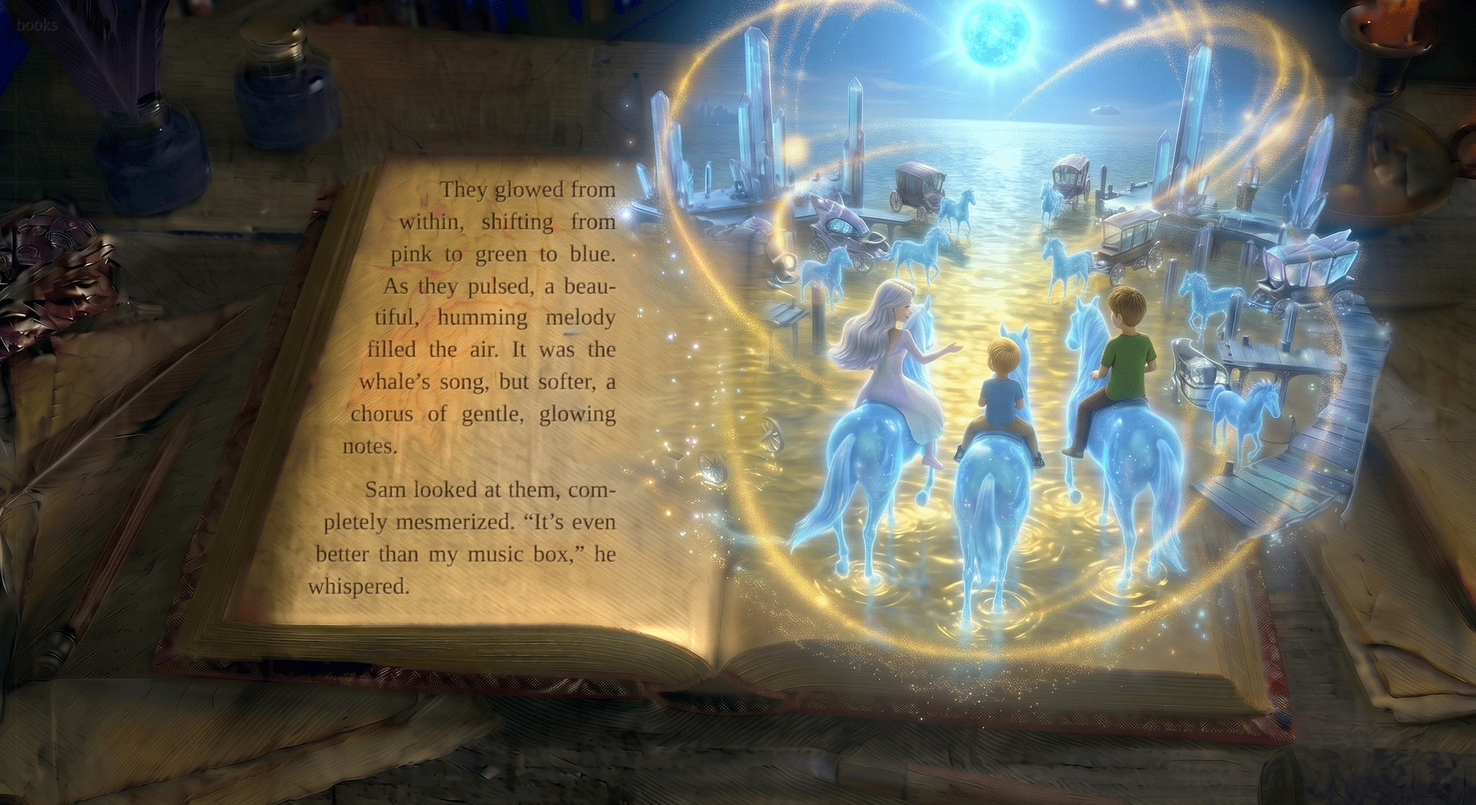
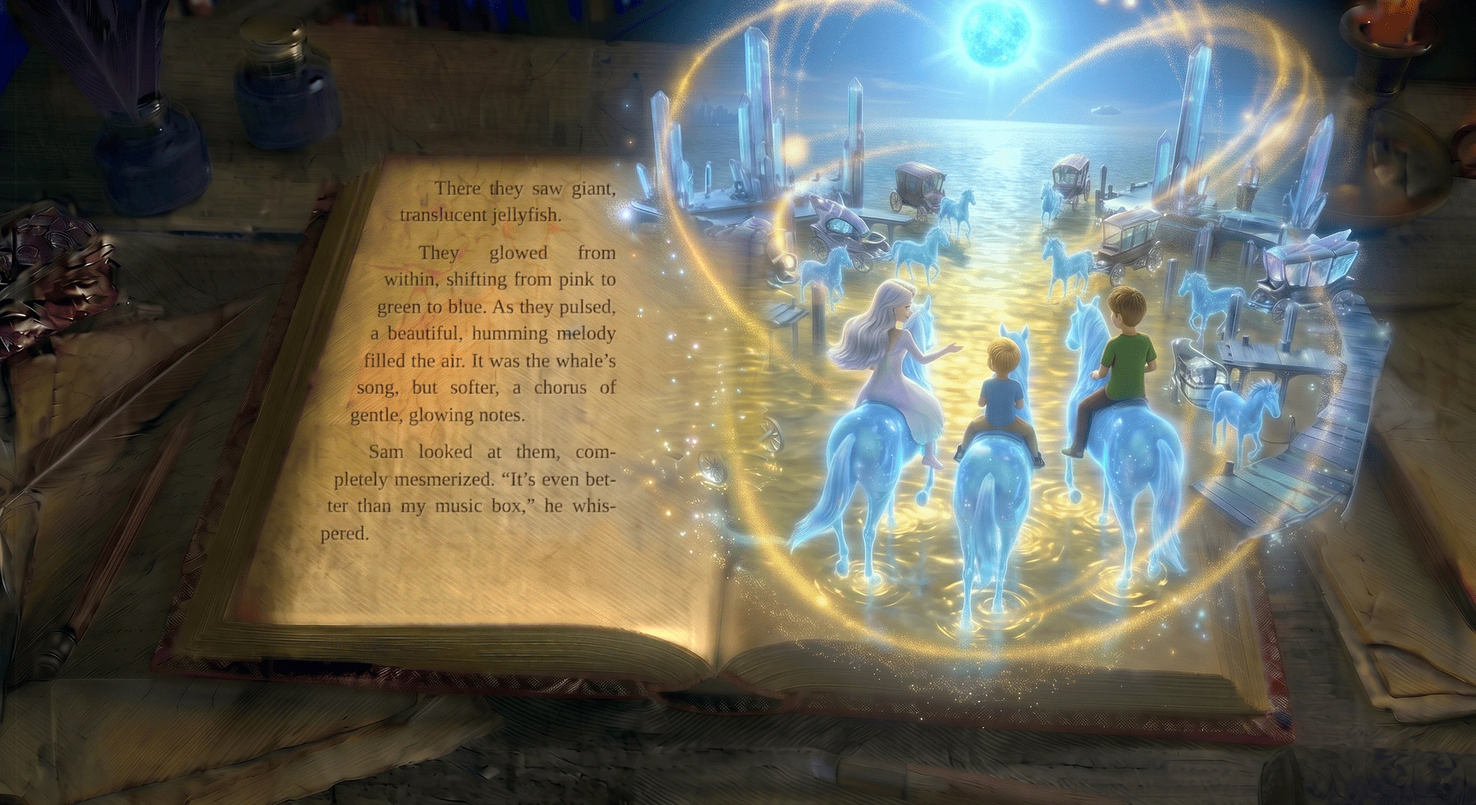
Pages 78-79: add port arrival line, move jellyfish sentence to next page
Claude-Session: https://claude.ai/code/session_01BFtifSTdmWYaAK88ECs5PE

Changed region(s): [[0.2188, 0.2188, 0.4375, 0.75]]

diff --git a/books/upside-down-world/story.js b/books/upside-down-world/story.js
@@ -79,8 +79,8 @@ window.STORY={"title":"The Upside-Down World","author":"M. A. Mafodh","pages":[
 {"img":"xy5","video":"xy5v","box":[374,172,636,596],"parts":["Xylia gasped and stumbled back a step.\n\"How... how did you do that?\"\nSam blinked at his fingers in surprise.\n\"I don't know,\" he admitted. \"It just felt warm. Like holding a flashlight.\""],"book":true},
 {"img":"xy6","video":"xy6v","box":[374,172,636,596],"parts":["Leo quickly pulled him to his feet and glanced uneasily toward the gray cottages.\n\"Probably static electricity from that weird waterfall door,\" he said, forcing a shrug. \"Come on, Sam. Let's stay together.\""],"book":true},
 {"img":"xy7","video":"xy7v","box":[374,172,636,596],"parts":["But as they walked on, neither Leo nor Xylia noticed the other restored flowers glowing faintly around them, their pink petals sparkling with traces of golden light."],"book":true},
-{"img":"p32","sprite":"p32k","dust":true,"book":true,"box":[374,170,574,596],"parts":["There, they had to ride blue shiny horses floating just above the water. \"Wow, they use horses to sail!\" Sam, who always wanted to ride one. The three adventurous friends started sailing towards the horizon.\nThere they saw giant, translucent jellyfish."]},
-{"img":"p32b","sprite":"p32k","dust":true,"book":true,"box":[374,170,574,596],"parts":["They glowed from within, shifting from pink to green to blue. As they pulsed, a beautiful, humming melody filled the air. It was the whale's song, but softer, a chorus of gentle, glowing notes.\nSam looked at them, completely mesmerized. \"It's even better than my music box,\" he whispered."]},
+{"img":"p32","sprite":"p32k","dust":true,"book":true,"box":[374,170,574,596],"parts":["When they finally reached the port, the yellow sea shimmered before them. There, they had to ride blue shiny horses floating just above the water. \"Wow, they use horses to sail!\" Sam, who always wanted to ride one. The three adventurous friends started sailing towards the horizon."]},
+{"img":"p32b","sprite":"p32k","dust":true,"book":true,"box":[374,170,574,596],"parts":["There they saw giant, translucent jellyfish.\nThey glowed from within, shifting from pink to green to blue. As they pulsed, a beautiful, humming melody filled the air. It was the whale's song, but softer, a chorus of gentle, glowing notes.\nSam looked at them, completely mesmerized. \"It's even better than my music box,\" he whispered."]},
 {"img":"p33","sprite":"p33k","dust":true,"songcard":true,"song":[0],"box":[372,176,602,590],"parts":["Swim in the Stars — Upside World Vol. 2"]},
 {"img":"p34","sprite":"p34k","dust":true,"book":true,"box":[374,170,584,590],"parts":["Leo took out the camera. \"I have to film this.\" He pressed record, capturing the impossible sight for proof. For a second, he almost forgot they were trapped in another world.\nAll of a sudden, the jellyfish panicked and started running away. \"We have to leave right now, pirates approaching us!\""]},
 {"img":"p34b","sprite":"p34k","dust":true,"book":true,"box":[374,170,584,590],"parts":["Xylia shouted with urgency, her voice filled with concern. She pointed towards the horizon where several black horses and wagons were swiftly heading in their direction. The wagons were rusty and jagged, like they were carved from nightmare, and they flew tattered flags with a dragon skull on them."]},

diff --git a/books/upside-down-world/index.html b/books/upside-down-world/index.html
@@ -128,7 +128,7 @@ body.narrow #bar{gap:6px;padding-top:8px}body.narrow #bar button{padding:0 12px;
   <button id="auto" aria-pressed="true" title="Turn the pages by itself">Auto turn</button>
   <button id="next" aria-label="Next page">&#8594;</button>
 </div>
-<script src="story.js?v=81"></script>
+<script src="story.js?v=82"></script>
 <script src="sprite.js?v=42"></script>
 <script src="lyrics.js?v=2"></script><script src="lyrics2.js?v=1"></script>
 <script src="voice.js?v=20"></script>
@@ -214,7 +214,7 @@ const vids={};let blackT=null;
 function black(){if(!blackT&&gl){blackT=gl.createTexture();gl.bindTexture(gl.TEXTURE_2D,blackT);gl.texImage2D(gl.TEXTURE_2D,0,gl.RGB,1,1,0,gl.RGB,gl.UNSIGNED_BYTE,new Uint8Array([0,0,0]));}return {ready:true,t:blackT};}
 function loadVid(name){if(vids[name])return vids[name];const v=document.createElement('video');v.muted=true;v.defaultMuted=true;v.loop=true;v.playsInline=true;v.setAttribute('playsinline','');v.setAttribute('muted','');v.preload='auto';v.crossOrigin='anonymous';v.src='img/'+name+'.mp4?v=35';
   const o={v,t:null,ok:false};v.addEventListener('playing',()=>{o.ok=true;});vids[name]=o;return o;}
-function pageTex(p){if(p.video)return {c:loadTex('img/'+p.img+'.webp?v=40'),d:p.relief?loadTex('img/'+p.img+'-d.webp'):black(),vid:loadVid(p.video)};return {c:loadTex('img/'+p.img+'.webp?v=40'),d:loadTex('img/'+p.img+'-d.webp')};}
+function pageTex(p){if(p.video)return {c:loadTex('img/'+p.img+'.webp?v=41'),d:p.relief?loadTex('img/'+p.img+'-d.webp'):black(),vid:loadVid(p.video)};return {c:loadTex('img/'+p.img+'.webp?v=41'),d:loadTex('img/'+p.img+'-d.webp')};}
 const ORIGIN={kb:[.72,.55],shade:[.80,.74]};
 function whv(p){return p.whale?[p.whale[0]/1408,p.whale[1]/768,p.whale[2]/1408,p.whale[3]/768]:[0,0,0,0];}
 function swv(p){return p.swirl?[p.swirl[0]/1408,p.swirl[1]/768,p.swirl[2],p.swirl[3]||0]:[0,0,0,0];}
@@ -239,7 +239,7 @@ function makeLayer(i){
   if(layers[i])return layers[i];
   const p=P[i],L=document.createElement('div');L.className='layer';
   const kb=document.createElement('div');kb.className='kb';kb.style.transformOrigin=(p.fx==='shade'?'80% 74%':'72% 55%');
-  if(!gl){let im;if(p.video){im=loadVid(p.video).v;im.poster='img/'+p.img+'.webp';}else{im=new Image();im.src='img/'+p.img+'.webp?v=40';im.alt='';}im.className='fb';kb.appendChild(im);}
+  if(!gl){let im;if(p.video){im=loadVid(p.video).v;im.poster='img/'+p.img+'.webp';}else{im=new Image();im.src='img/'+p.img+'.webp?v=41';im.alt='';}im.className='fb';kb.appendChild(im);}
   if(p.fx==='shade'){const s=document.createElement('div');s.className='shade';kb.appendChild(s);L._shade=s;}
   if(p.song){const r=document.createElement('div');r.className='rings';r.style.cssText='left:'+(650/W*100)+'%;top:'+(55/H*100)+'%;width:'+(130/W*100)+'%;height:'+(130/H*100)+'%';r.innerHTML='<i></i><i></i><i></i><i></i>';kb.appendChild(r);L._rings=r;}
   const t=document.createElement('div');t.className='txt'+(p.cover?' cover':'')+(p.book?' bk':'')+(p.songcard?' sc':'');let b=p.box;
